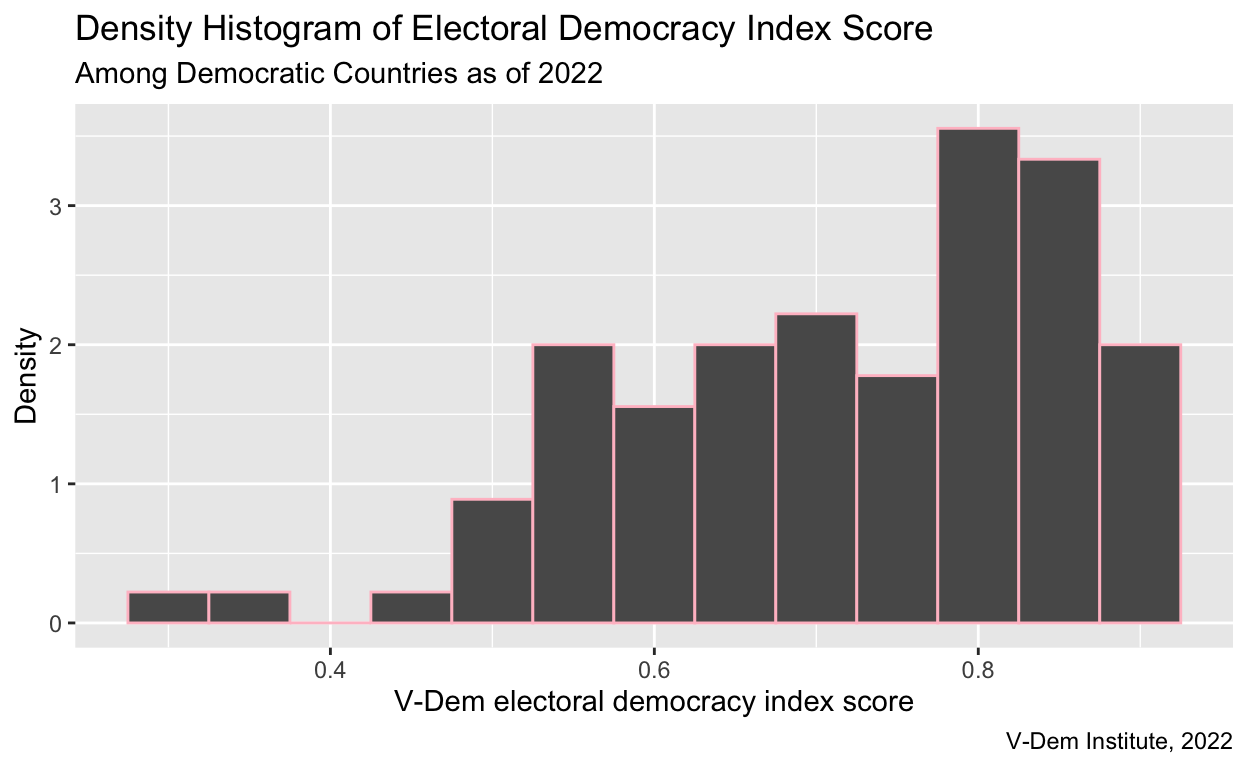
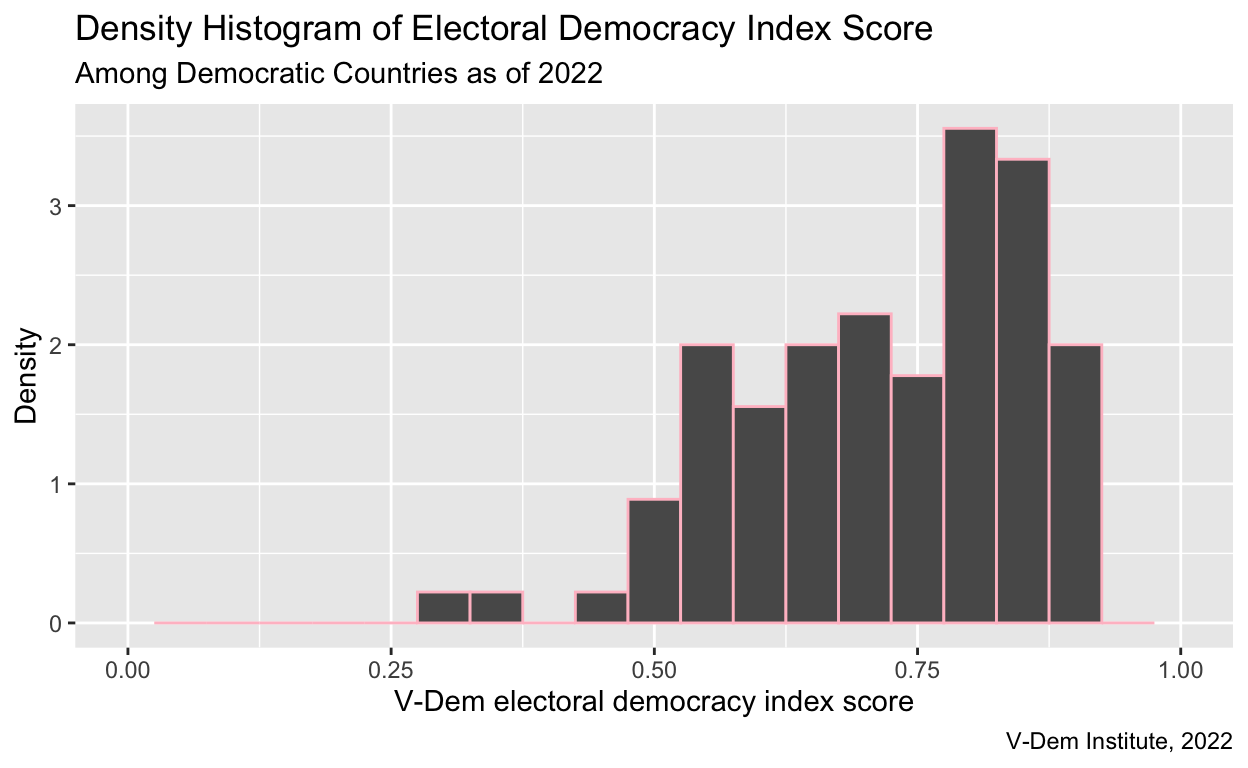
finally done

diff --git a/index.html b/index.html
@@ -1579,7 +1579,9 @@ code span.wa { color: #5e5e5e; font-style: italic; } /* Warning */
 <span></span>
 <span><span class='va'>score_density</span> <span class='op'>&lt;-</span> <span class='va'>ert</span> <span class='op'>|&gt;</span></span>
 <span>  <span class='fu'><a href='https://ggplot2.tidyverse.org/reference/ggplot.html'>ggplot</a></span><span class='op'>(</span><span class='fu'><a href='https://ggplot2.tidyverse.org/reference/aes.html'>aes</a></span><span class='op'>(</span>x <span class='op'>=</span> <span class='va'>v2x_polyarchy</span><span class='op'>)</span><span class='op'>)</span> <span class='op'>+</span></span>
-<span>  <span class='fu'><a href='https://ggplot2.tidyverse.org/reference/geom_histogram.html'>geom_histogram</a></span><span class='op'>(</span><span class='fu'><a href='https://ggplot2.tidyverse.org/reference/aes.html'>aes</a></span><span class='op'>(</span>y <span class='op'>=</span> <span class='fu'><a href='https://ggplot2.tidyverse.org/reference/aes_eval.html'>after_stat</a></span><span class='op'>(</span><span class='va'>density</span><span class='op'>)</span><span class='op'>)</span>, binwidth <span class='op'>=</span> <span class='fl'>0.05</span>, color <span class='op'>=</span> <span class='st'>"pink"</span><span class='op'>)</span> <span class='op'>+</span></span>
+<span>  <span class='fu'><a href='https://ggplot2.tidyverse.org/reference/geom_histogram.html'>geom_histogram</a></span><span class='op'>(</span><span class='fu'><a href='https://ggplot2.tidyverse.org/reference/aes.html'>aes</a></span><span class='op'>(</span>y <span class='op'>=</span> <span class='fu'><a href='https://ggplot2.tidyverse.org/reference/aes_eval.html'>after_stat</a></span><span class='op'>(</span><span class='va'>density</span><span class='op'>)</span><span class='op'>)</span>, </span>
+<span>                 binwidth <span class='op'>=</span> <span class='fl'>0.05</span>, color <span class='op'>=</span> <span class='st'>"pink"</span><span class='op'>)</span> <span class='op'>+</span></span>
+<span>  <span class='fu'><a href='https://ggplot2.tidyverse.org/reference/lims.html'>xlim</a></span><span class='op'>(</span><span class='fl'>0</span>, <span class='fl'>1</span><span class='op'>)</span> <span class='op'>+</span></span>
 <span>  <span class='fu'><a href='https://ggplot2.tidyverse.org/reference/labs.html'>labs</a></span><span class='op'>(</span>x <span class='op'>=</span> <span class='st'>"V-Dem electoral democracy index score"</span>, </span>
 <span>       y <span class='op'>=</span> <span class='st'>"Density"</span>,</span>
 <span>       title <span class='op'>=</span> <span class='st'>"Density Histogram of Electoral Democracy Index Score"</span>,</span>
@@ -1592,7 +1594,7 @@ code span.wa { color: #5e5e5e; font-style: italic; } /* Warning */
 </div>
 <p>For my project, I will primarily analyze V-Dem’s Episodes of Regime Transformation (ERT) data set, which contains 680 unique ERTs from 1900 to 2022. V-Dem defines ERTs as major episodes of regime change toward either democracy or autocracy. I will utilize a cross-sectional observational research design comparing the age and electoral democracy index score of democratic regimes across several countries based on data from 2022 (when the ERT data was most recently updated). The source of this data is the V-Dem Institute, an institute based at the University of Gothenburg that relies on expert coding and granular analysis of country-specific variables to generate globally applicable measures of democracy.</p>
 <p>My explanatory variable of interest is the age of the democratic regime, measured as an integer in years. I will derive this regime age variable from the regime founding year variable (reg_start_year, which is coded as a year between 1900 and 2022) by subtracting the founding year from 2022. V-Dem determined the regime founding year based on their expert analysis of when a given country’s regime transitioned from autocracy to democracy according to V-Dem’s categorization of Regimes of the World. Additionally, I was curious about how GDP may be a confounding variable that increases with time and that may increase the democratic index score of a regime. Thus, I also included a data set from the World Bank on each country’s 2022 GDP in USD to briefly evaluate GDP as an additional potential explanatory variable.</p>
-<p>My outcome variable of interest is the regime’s current score on the V-Dem electoral democracy index (represented by the variable v2x_polyarchy), which is measured as a value in the interval from 0 to 1. This score is determined by the expert coding methodology established by Michael Coppedge et al. via the V-Dem project. To keep my analysis focused on democracies, I will use the regime type variable (reg_type) to filter my data set to only include democracies existing in 2022. As the above density histogram depicts, there is a leftward skew in the distribution of EDIs among democracies in 2022, with the mode of scores being around 0.8.</p>
+<p>My outcome variable of interest is the regime’s current score on the V-Dem electoral democracy index (represented by the variable v2x_polyarchy), which is measured as a value in the interval from 0 to 1. This score is determined by the expert coding methodology established by Michael Coppedge et al. via the V-Dem project. To keep my analysis focused on democracies, I will use the regime type variable (reg_type) to filter my data set to only include democracies existing in 2022. As the above density histogram depicts, there is a leftward skew in the distribution of EDIs among democracies in 2022, with the mode of scores being a little over 0.8.</p>
 <h2 id="results">Results</h2>
 <h1 id="scatterplot-visualization">Scatterplot Visualization</h1>
 <div class="layout-chunk" data-layout="l-body">
@@ -1601,7 +1603,6 @@ code span.wa { color: #5e5e5e; font-style: italic; } /* Warning */
 <span><span class='co'># electoral democracy index score by regime age</span></span>
 <span></span>
 <span><span class='va'>age_dem_scatter</span> <span class='op'>&lt;-</span> <span class='va'>ert</span> <span class='op'>|&gt;</span> </span>
-<span>  <span class='fu'><a href='https://dplyr.tidyverse.org/reference/summarise.html'>summarize</a></span><span class='op'>(</span><span class='va'>country_name</span>, <span class='va'>reg_start_year</span>, <span class='va'>v2x_polyarchy</span>, <span class='va'>regime_age</span><span class='op'>)</span> <span class='op'>|&gt;</span></span>
 <span>  <span class='fu'><a href='https://ggplot2.tidyverse.org/reference/ggplot.html'>ggplot</a></span><span class='op'>(</span>mapping <span class='op'>=</span> <span class='fu'><a href='https://ggplot2.tidyverse.org/reference/aes.html'>aes</a></span><span class='op'>(</span>x <span class='op'>=</span> <span class='va'>regime_age</span>, y <span class='op'>=</span>  <span class='va'>v2x_polyarchy</span><span class='op'>)</span><span class='op'>)</span> <span class='op'>+</span></span>
 <span>  <span class='fu'><a href='https://ggplot2.tidyverse.org/reference/geom_point.html'>geom_point</a></span><span class='op'>(</span>alpha <span class='op'>=</span> <span class='fl'>0.8</span><span class='op'>)</span> <span class='op'>+</span></span>
 <span>  <span class='fu'><a href='https://ggplot2.tidyverse.org/reference/lims.html'>ylim</a></span><span class='op'>(</span><span class='fl'>0</span>,<span class='fl'>1</span><span class='op'>)</span> <span class='op'>+</span></span>
